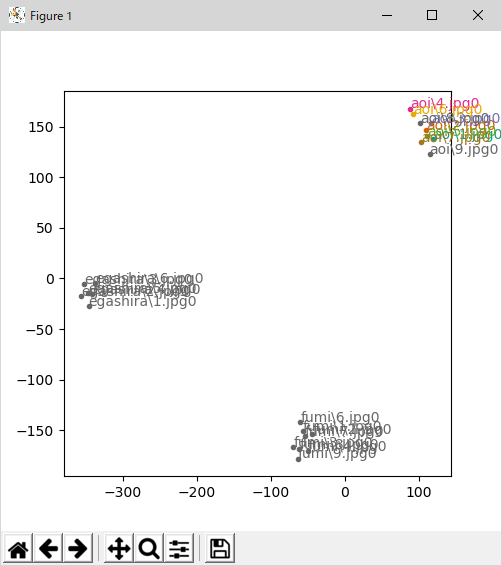
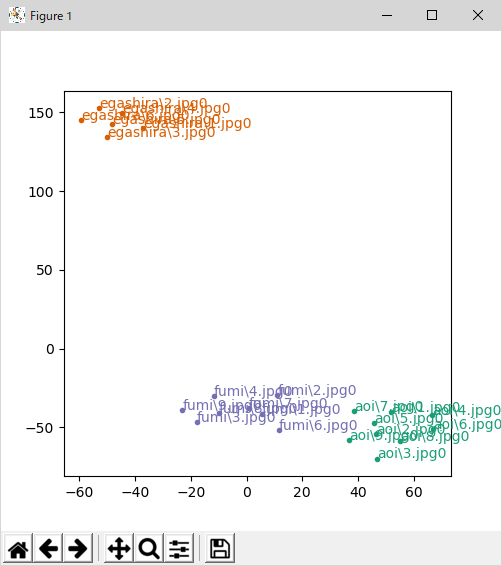
added more hyper parameters in t-sne function

diff --git a/face-feature-visualization.py b/face-feature-visualization.py
@@ -76,25 +76,9 @@ def displayFacesInDB(face_db):
             img = cv2.cvtColor(face['img'], cv2.COLOR_BGR2RGB)
             img = cv2.resize(img, (100,100))
             plt.imshow(img)
-            plt.title(face['name'], fontdict={'family':'TakaoGothic'})
+            plt.title(face['name'])
             plt.axis('off')
     plt.show()
-
-def disp(reduced, label):
-    xmin = min(reduced[:,0])
-    xmax = max(reduced[:,0])
-    ymin = min(reduced[:,1])
-    ymax = max(reduced[:,1])
-    xymax = max([abs(xmin), abs(xmax), abs(ymin), abs(ymax)]) * 1.2
-    scale = (300)/xymax
-    img = np.full((300*2, 300*2, 3), (255,255,255), np.uint8)
-    for l, r in zip(label, reduced):
-        x = int(r[0]*scale)+300
-        y = int(r[1]*scale)+300
-        cv2.circle(img, (x,y), 4, (0,0,0), -1)
-        cv2.putText(img, l, (x,y), cv2.FONT_HERSHEY_PLAIN, 1, (0,0,0), 1)
-    cv2.imshow('scatter', img)
-    cv2.waitKey(1)
 
 def reduceDimensionAndDisplayScatterChart(face_db):
     vec=[]
@@ -104,15 +88,20 @@ def reduceDimensionAndDisplayScatterChart(face_db):
             vec.append(np.array(face['feature'], dtype=np.float32))
             name.append(face['name'])
 
-    tsne = TSNE(n_components=2, init='random', random_state=0, perplexity=1)
+    tsne = TSNE(n_components=2, init='random', random_state=0, 
+            n_iter=10000, n_iter_without_progress=200,
+            learning_rate=50, perplexity=4)
     reduced = tsne.fit_transform(vec)
-
-    #disp(reduced, name)
 
     fig, ax = plt.subplots(figsize=(5,5))
     cmap=plt.get_cmap('Dark2')
+    col_idx = 0
+    prev_name=os.path.dirname(name[0])
     for i in range(reduced.shape[0]):
-        cval = cmap(i)
+        if os.path.dirname(name[i]) != prev_name:
+            prev_name=os.path.dirname(name[i])
+            col_idx+=1
+        cval = cmap(col_idx)
         ax.scatter(reduced[i][0], reduced[i][1], marker='.', color=cval)
         ax.annotate(name[i], xy=(reduced[i][0], reduced[i][1]), color=cval)
     plt.show()
